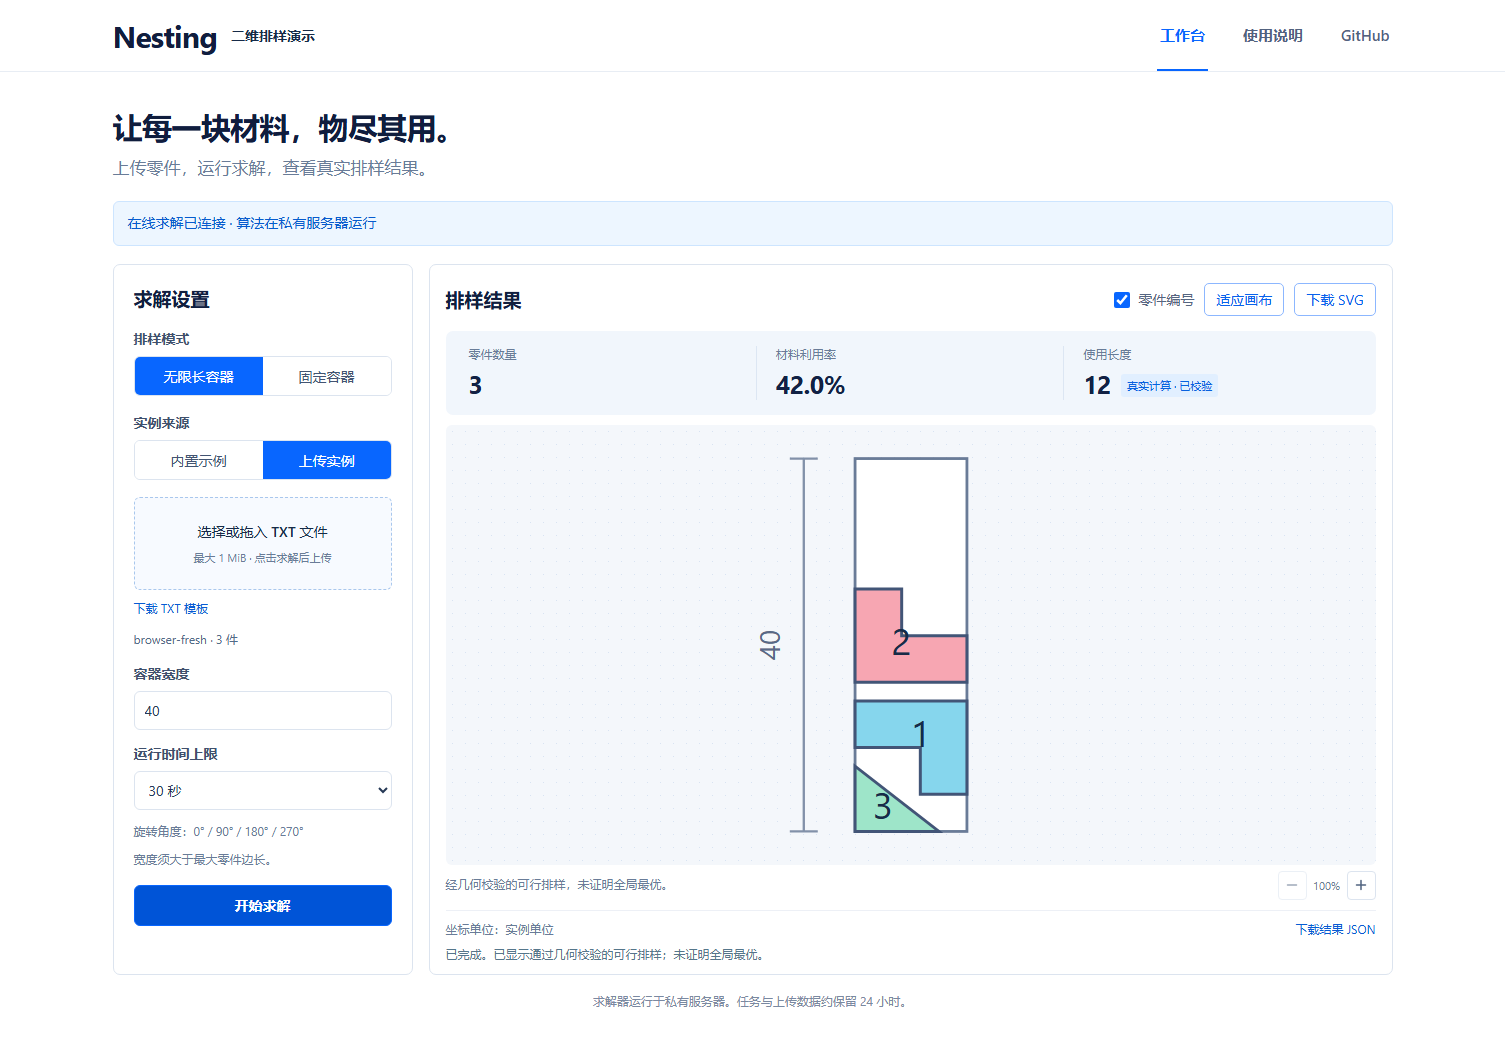
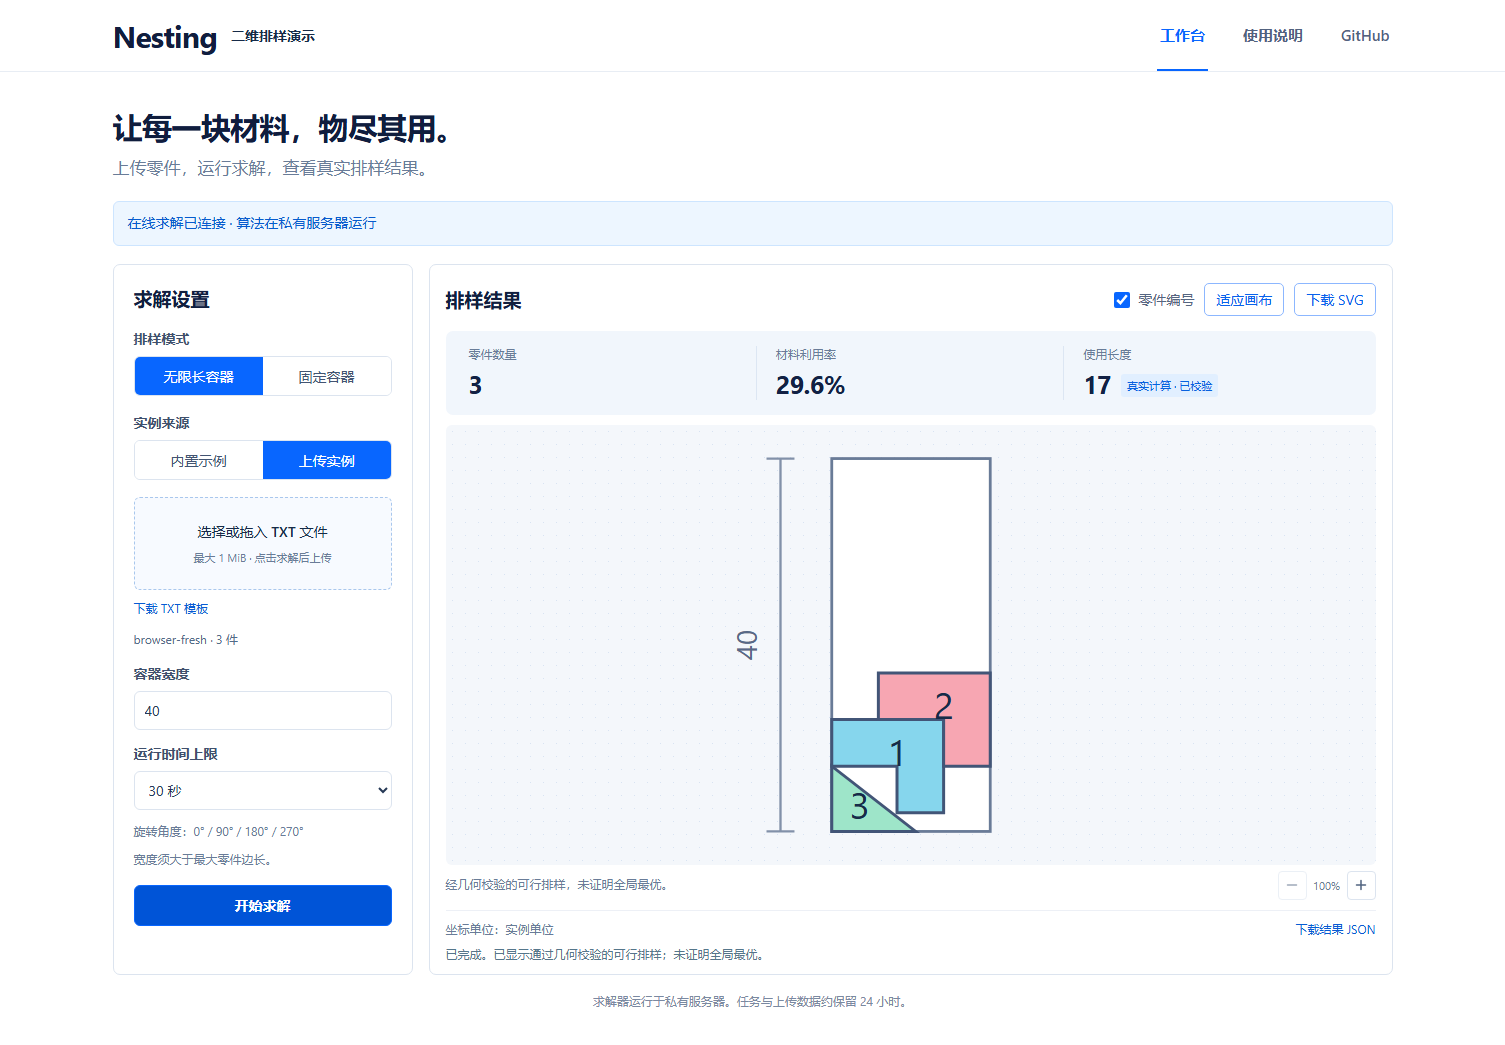
docs: record verified zero-clearance solver behavior

Changed region(s): [[0.4684, 0.4287, 0.687, 0.7962], [0.4997, 0.3675, 0.5309, 0.3981]]

diff --git a/docs/verification.md b/docs/verification.md
@@ -1,25 +1,27 @@
 # 验证记录
 
-日期：2026-09-10。当前交付包含离线预览与真实求解客户端；公网 config.json 仍保持 preview，公网 HTTPS 接入尚未完成。
+更新日期：2026-09-11。客户端支持离线预览和真实求解；公开 config.json 保持 preview，公网 HTTPS 接入尚未完成。
 
-## 已执行
+## 零间隙更新
 
-- 前端单元测试：19 项通过，包含原有几何/输入/导出测试，以及 HTTPS 配置、真实结果协议和会话到期边界。
-- Vue 类型检查与生产构建通过。
-- Playwright：桌面 1505×1045、手机 390×844，共 20 项通过。其中 18 项使用本地页面或明确标注的协议夹具；2 项通过本机测试转发访问实际私有 API，每项上传新实例并运行两种 C++ 求解器。没有把接口夹具当作服务器执行证据。
-- 真实三件零件实例总面积 201.5；浏览器收到了 validated=true 的完整排样，两种模式分别成功。结果读取期间输入保持锁定，切换参数后旧排样清除。
-- 真实默认 12 件实例通过私有 HTTP API 完成两种模式，总面积 9546.5，数量完整。服务端独立检查数量、旋转形状、容器包含和重叠。
-- 私有后端另外执行了 25 项测试，覆盖解析、结果校验、权限、队列/取消、真实求解容器、启动失败清理、默认示例的整数几何回归。
-- 独立代码审查发现的结果异步竞态、Docker 启动失败清理、会话身份切换问题已修复，并有对应回归测试。
+- 服务模式已移除额外扩张，零件间强制间距为 0。对原始几何轮廓做精确判定，允许共边、共点，拒绝正面积重叠。
+- 私有后端 44 项测试全部通过，覆盖矩形完全贴合、斜向接触线内部格点、微小重叠、240 组独立几何比对、三组随机种子的默认实例、真实 C++ 与容器运行。
+- 通过实际 HTTP API 上传：两块 10×10 方形在宽度 11 的条带上使用长度 20；四块 10×10 方形完全装入一个 20×20 容器，实际最小零件距离均为 0。
+- 默认 12 件实例两模式均通过独立校验，总面积 9546.5；本次 strip 使用长度 128，bin 使用 6 个边长 54 的容器，两者都存在边界直接接触的零件。
+- 部署后重跑桌面、手机两项真实浏览器用例，均通过。每项实际上传新实例并运行两种求解器，页面无脚本错误。实际查看更新后的桌面截图，结果中可见边界接触。
 
-## 视觉与产物
+## 前端初始验收
 
-真实求解截图：[桌面](screenshots/live-desktop.png)、[手机](screenshots/live-mobile.png)。实际查看截图，检查布局、按钮、状态、排样与中文文案。Windows 沙箱导致 view_image 读取失败后，通过已授权的只读图像输出完成检查。
+2026-09-10：19 项单元测试、Vue 类型检查和生产构建通过；桌面 1505×1045、手机 390×844 共 20 项 Playwright 检查通过。其中 18 项使用本地页面或明确标注的协议夹具，2 项经本机转发访问实际私有 API。未把夹具当作真实服务器执行证据。
 
-公开源码与生产产物检查未发现私有服务器地址、数据库凭证、宿主路径或求解器源码/程序。本机 .env.local 被 Git 忽略。生产 dist/config.json 保持 preview；本机开发服务器覆盖不进入发布产物。
+覆盖提交、取消、结果下载、参数变化时清除旧排样、读取结果期间锁定输入，以及会话到期身份处理。普通 GitHub CI 不提供私有接口地址，真实服务器用例明确跳过。
 
-## 边界
+## 产物与边界
 
-当前实际网络验收路径是本机浏览器 → 本机测试转发 → 私有 HTTP API → PostgreSQL/Worker → C++。这不等于 GitHub Pages 到公网 HTTPS 的验收；后者需要可用入口后另行完成。
+真实求解截图：[桌面](screenshots/live-desktop.png)、[手机](screenshots/live-mobile.png)。
 
-在线演示有明确输入范围与数值边界，结果为可行解，不承诺全局最优或全部历史基准实例均可求解。未验证高并发负载；首版一次执行一个任务。关闭页面后不保留访客会话。
+公开仓库不包含私有求解器源码、程序或凭证。本机 .env.local 被 Git 忽略，开发服务器的连接配置不会进入生产配置。
+
+实际联调路径为本机浏览器 → 本机测试转发 → 私有 API → Worker → C++。这不等于 GitHub Pages 到公网 HTTPS 的验收；后者仍需要可用入口。
+
+零间隙表示不额外留距，不保证容器没有空白或每对零件互相接触。坐标搜索网格分别为 strip=1、bin=0.01（输入坐标单位）。排样是通过校验的可行解，不承诺全局最优或全部历史基准均可求解。未验证高并发负载，首版一次执行一个任务。旧任务不会自动重算，需要重新提交。

diff --git a/docs/backend-contract.md b/docs/backend-contract.md
@@ -26,7 +26,7 @@
 
 结果包括 `kind: solver_result`、`validated: true`、`name`、`mode`、`width`、`height`、`containers`、`placements`。每个 placement 包含整数 id、typeId、container（从 0 开始）、rotation 和世界坐标 polygon。strip 的 width 是实际使用长度，height 是请求的固定宽度。
 
-额外元数据包括 jobId、status、elapsedSeconds、输入摘要和运行参数。后端采用保守的整数几何边界，`numericalGuardUnits` 记录对应数值边界；前端不重新求解。
+额外元数据包括 jobId、status、elapsedSeconds、输入摘要和运行参数。零间隙版本返回 `clearance: 0`、`numericalGuardUnits: 0`，不对零件之间施加强制间距；边界接触合法，正面积重叠不合法。`placementGridUnits` 是坐标搜索网格（strip 为 1、bin 为 0.01，按输入坐标单位），不代表间距。前端不重新求解。
 
 错误使用 `{detail: "可展示的信息"}`，不返回命令、日志或内部路径。身份失效 401，非本人或不存在的资源 404，参数错误 422，达到限额 429。
 

diff --git a/README.md b/README.md
@@ -62,6 +62,8 @@ y 0 0 15
 
 无限长模式固定宽度，优化使用长度；演示要求宽度大于最大零件边长。固定容器使用最大零件边长乘以 1.1、1.5 或 2.0 的正方形。运行时间可选 30、60、120 秒，四种旋转角度为 0°、90°、180°、270°。
 
+真实求解不额外设置零件间距，允许边界直接接触，禁止重叠。形状和搜索结果仍可能留下空白；零间隙不代表保证填满容器。坐标搜索网格为无限长模式 1、固定容器模式 0.01（输入坐标单位），JSON 分别记录 clearance 和 placementGridUnits。
+
 SVG 和 JSON 导出区分合成示例与真实计算。真实结果在后端检查零件数量、形状、重叠和越界。任务与上传数据约保留 24 小时；关闭页面不会立即取消后台任务。
 
 验证范围和剩余事项见 [验证记录](docs/verification.md)。
